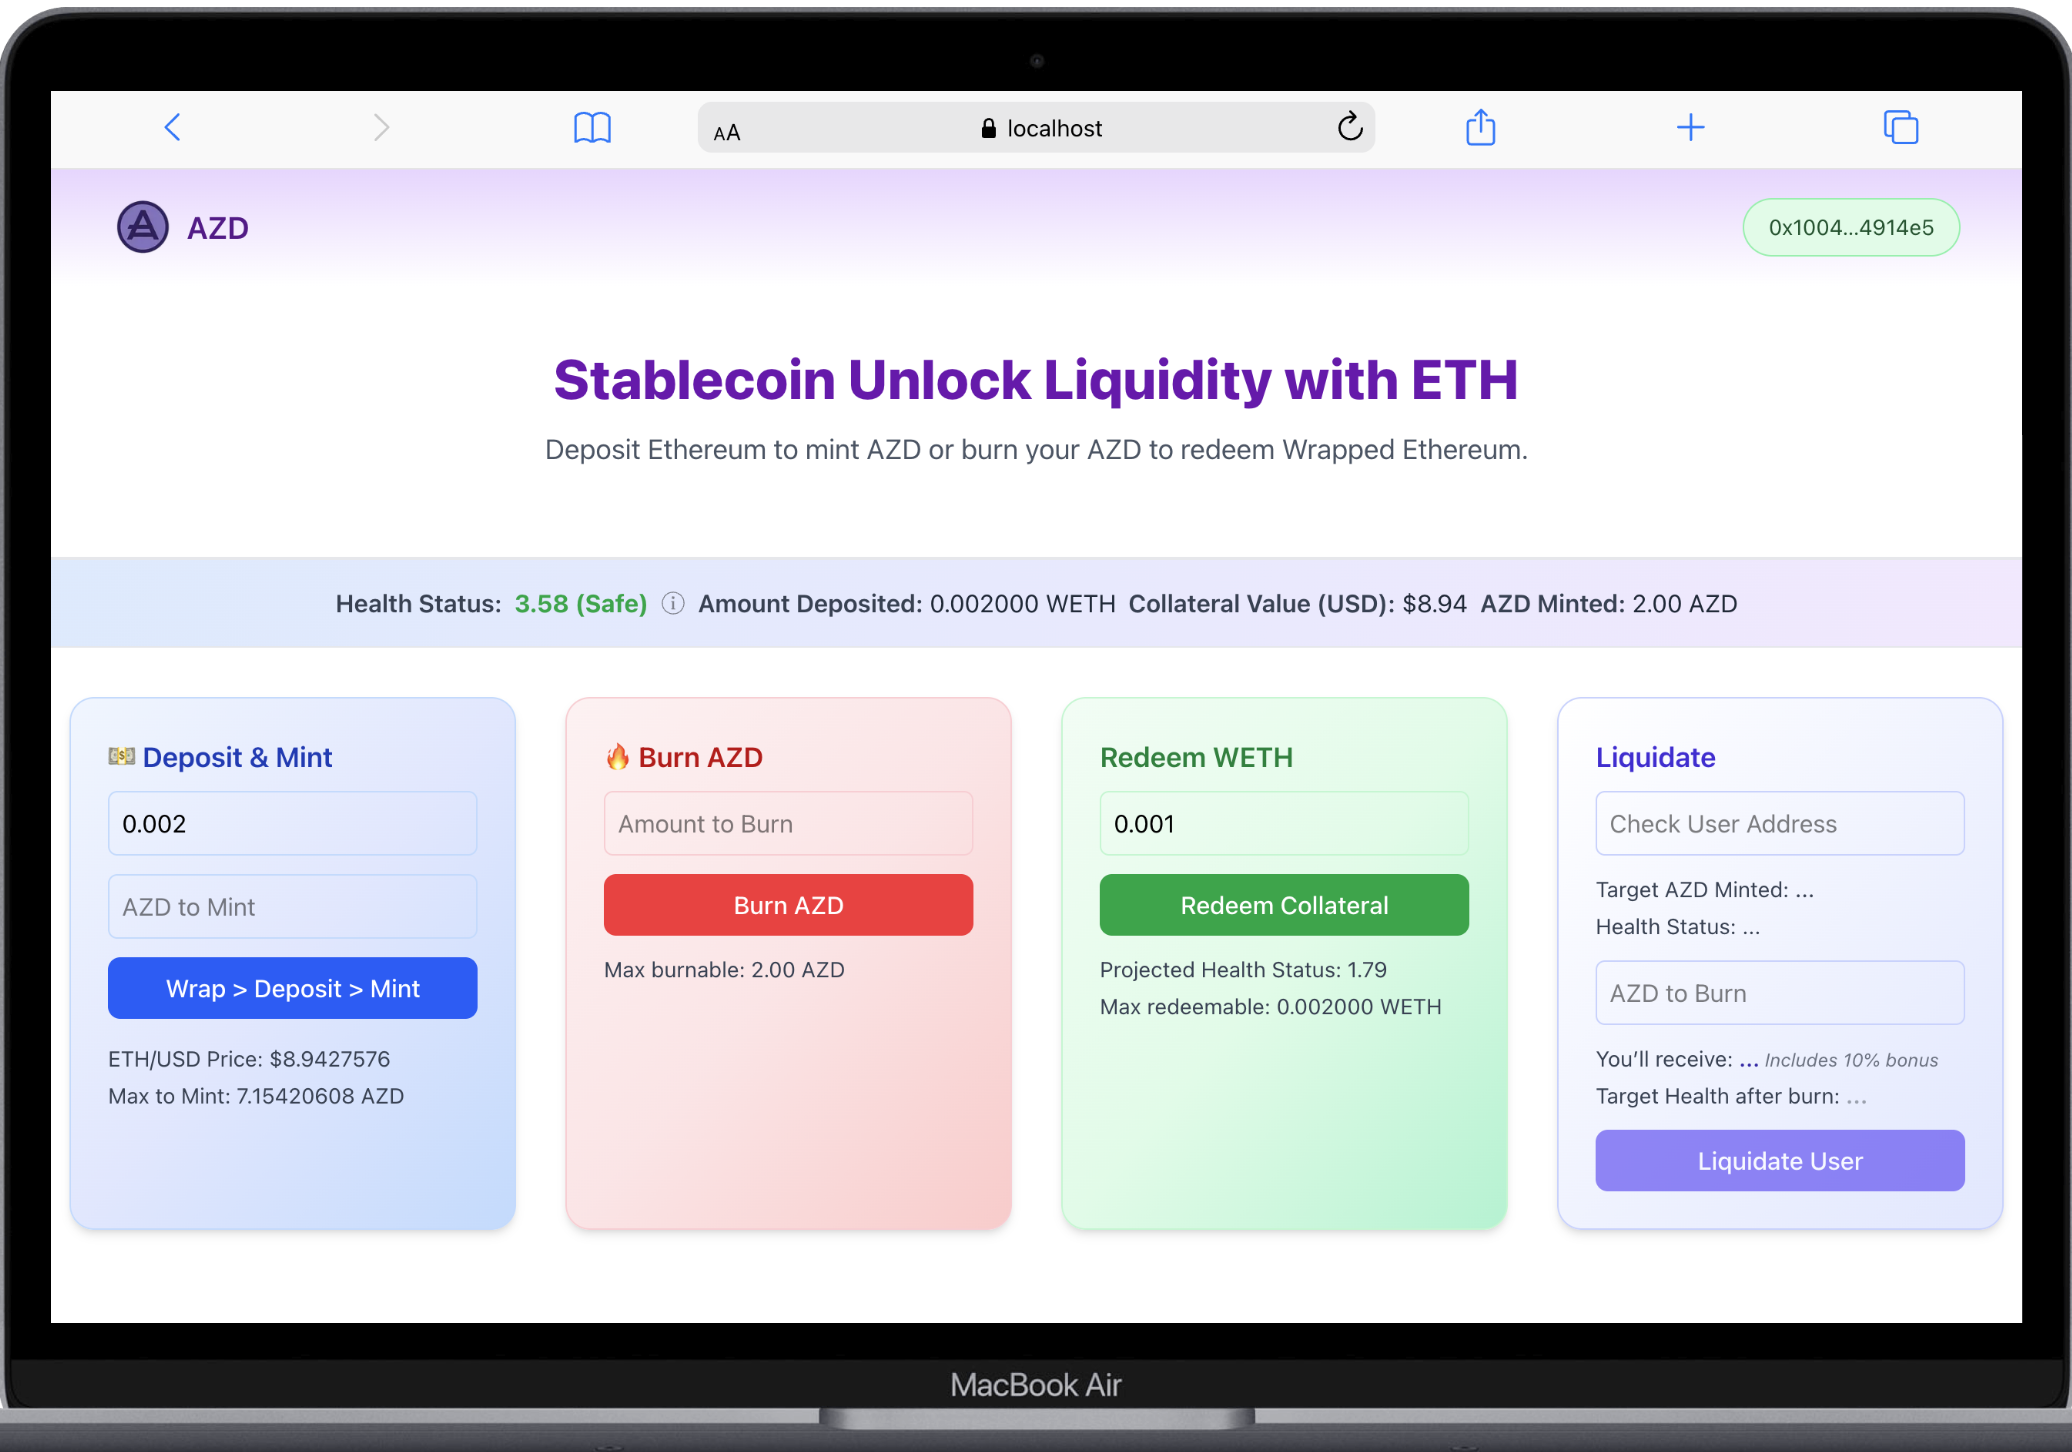
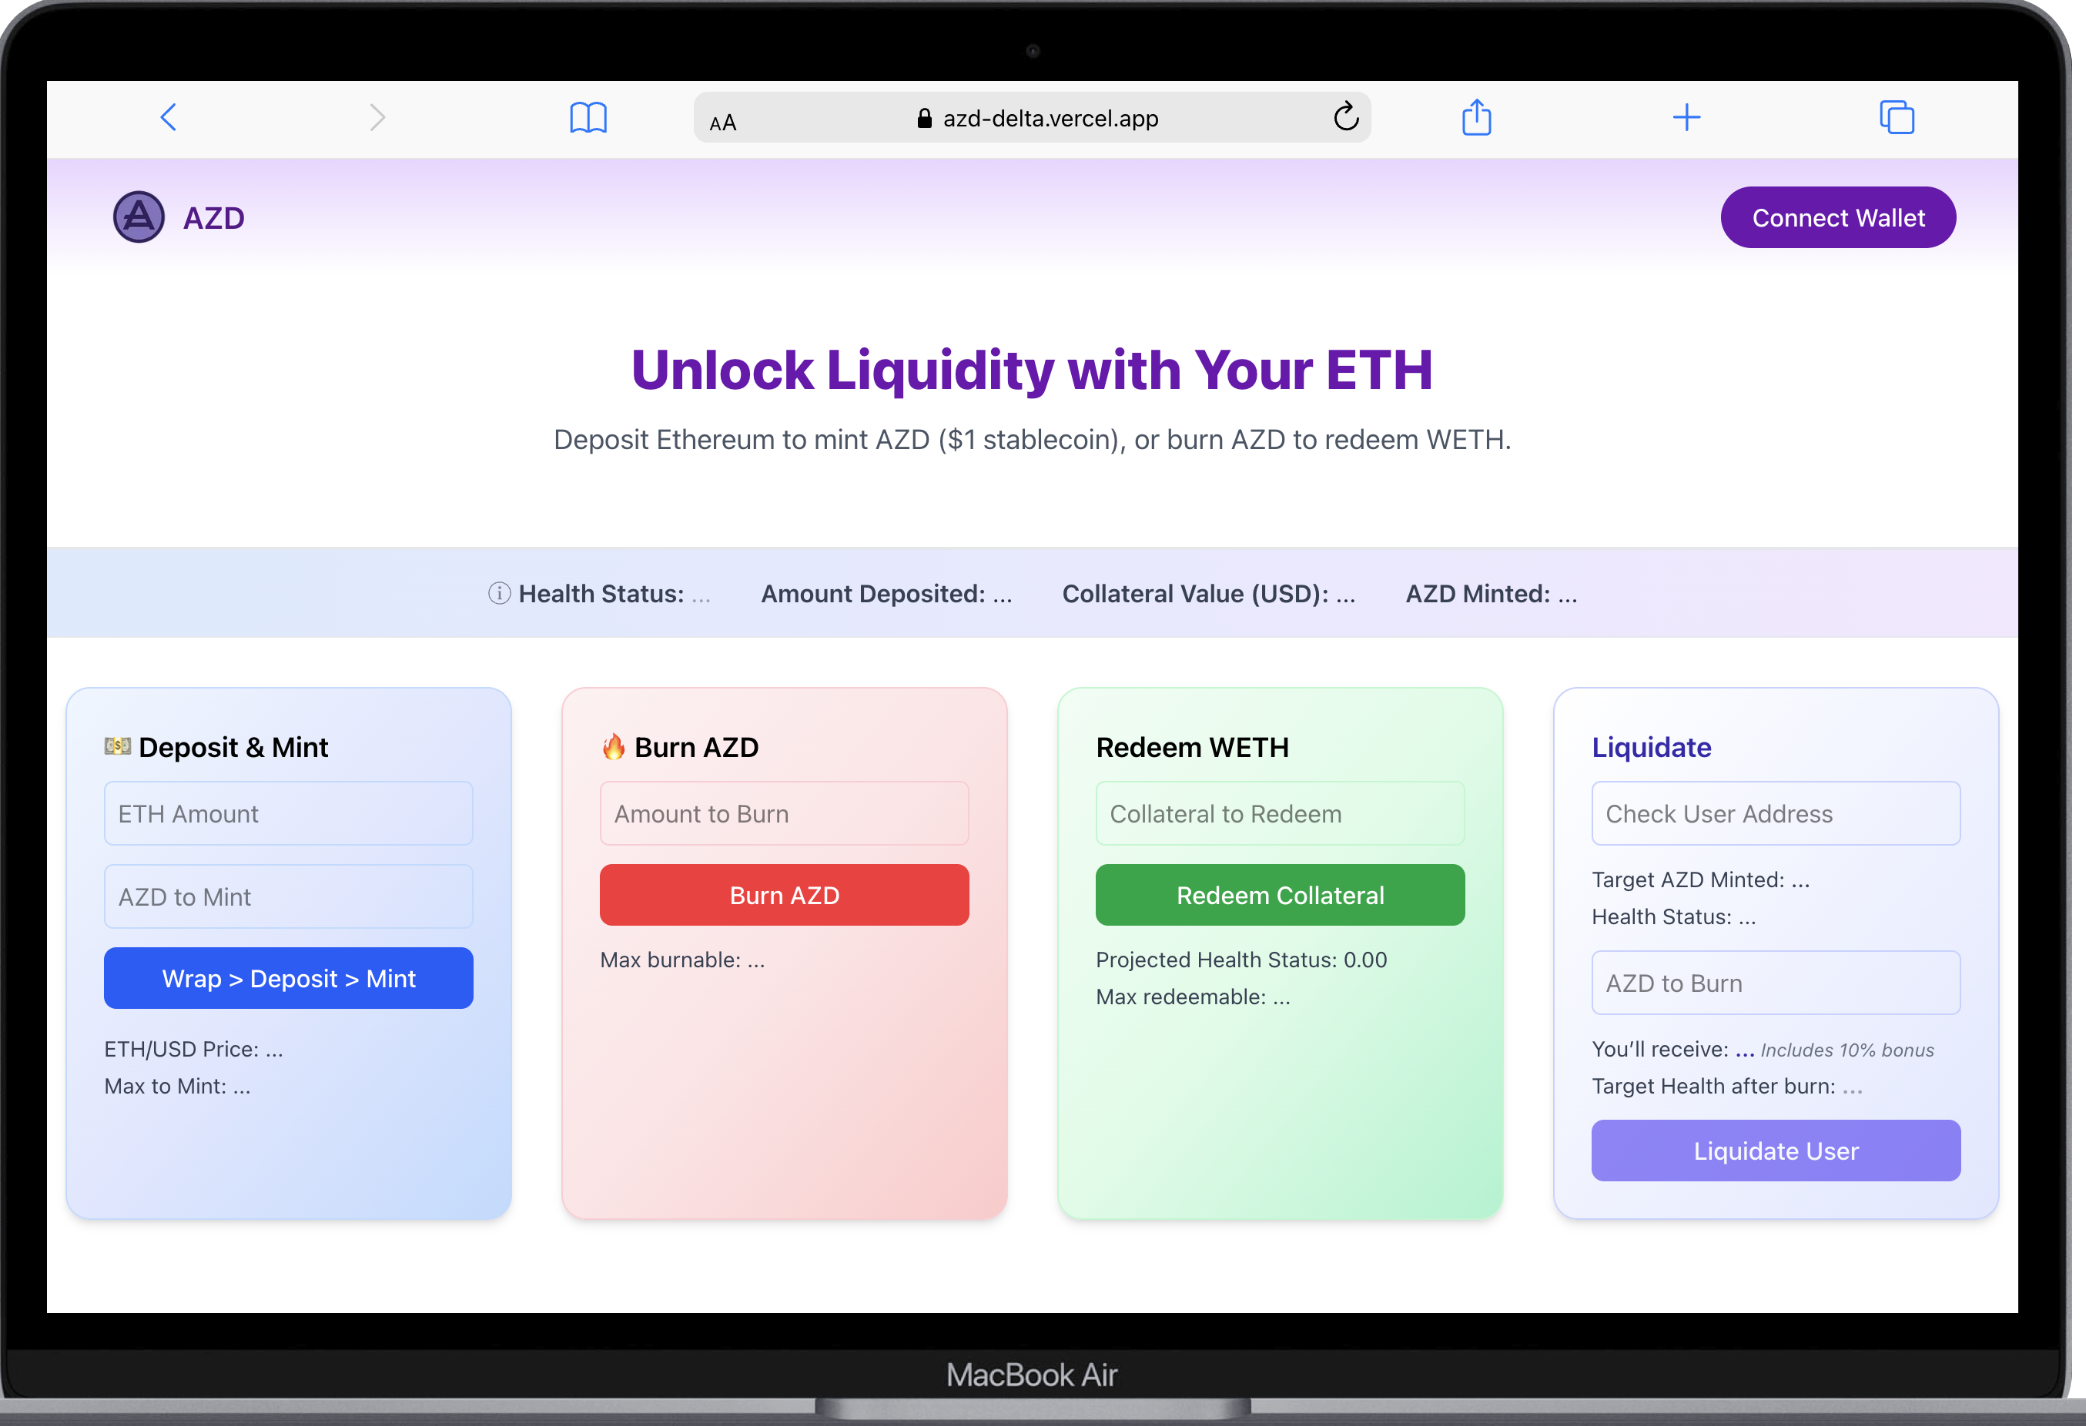
fixed buttons alignment

diff --git a/frontend-integration/src/app/page.js b/frontend-integration/src/app/page.js
@@ -66,6 +66,17 @@ export default function Home() {
   const [liquidateAmount, setLiquidateAmount] = useState("");
   const [liquidationPreview, setLiquidationPreview] = useState(null);
 
+  const SEPOLIA_PARAMS = {
+    chainId: "0xaa36a7", // Hex for 11155111
+    chainName: "Sepolia",
+    nativeCurrency: {
+      name: "Sepolia ETH",
+      symbol: "ETH",
+      decimals: 18,
+    },
+    rpcUrls: ["https://rpc.sepolia.org"],
+    blockExplorerUrls: ["https://sepolia.etherscan.io"],
+  };
 
   /*//////////////////////////////////////////////////////////////
                          CONNECT WALLET
@@ -79,6 +90,9 @@ export default function Home() {
     try {
       const provider = new ethers.BrowserProvider(window.ethereum); //so can talk to the blockchain
       await provider.send("eth_requestAccounts", []); // popup ask user to connect
+
+
+      await switchToSepolia(provider); // Force to switch to Sepolia
 
       const signer = await provider.getSigner(); //Represents the connected wallet, used to sign transactions.
       const address = await signer.getAddress(); //get user wallet address
@@ -96,6 +110,20 @@ export default function Home() {
 
     } catch (err) {
       console.error("Wallet connection failed:", err);
+    }
+  }
+
+
+  async function switchToSepolia(provider) {
+    try {
+      await provider.send("wallet_switchEthereumChain", [{ chainId: SEPOLIA_PARAMS.chainId }]);
+    } catch (err) {
+      // If the network isn’t added yet
+      if (err.code === 4902) {
+        await provider.send("wallet_addEthereumChain", [SEPOLIA_PARAMS]);
+      } else {
+        throw err;
+      }
     }
   }
 
@@ -498,44 +526,61 @@ export default function Home() {
           {/* Deposit & Mint */}
           <Card title="💵 Deposit & Mint" color="blue">
             {/* Specific inputs + button + logic */}
-            <div className="flex flex-col gap-3">
-              <input
-                type="number"
-                placeholder="ETH Amount"
-                className="border border-blue-200 p-2 rounded-md focus:ring-2 focus:ring-blue-400 outline-none"
-                value={collateralAmount}
-                onChange={handleInputCollateralChange}
-              />
-              <input
-                type="number"
-                placeholder="AZD to Mint"
-                className="border border-blue-200 p-2 rounded-md focus:ring-2 focus:ring-blue-400 outline-none"
-                value={mintAmount}
-                onChange={(e) => setMintAmount(e.target.value)}
-              />
+            <div className="flex flex-col justify-between flex-1">
+              <div className="flex flex-col gap-3">
+                <input
+                  type="number"
+                  placeholder="ETH Amount"
+                  className="border border-blue-200 p-2 rounded-md focus:ring-2 focus:ring-blue-400 outline-none"
+                  value={collateralAmount}
+                  onChange={handleInputCollateralChange}
+                />
+                <input
+                  type="number"
+                  placeholder="AZD to Mint"
+                  className="border border-blue-200 p-2 rounded-md focus:ring-2 focus:ring-blue-400 outline-none"
+                  value={mintAmount}
+                  onChange={(e) => setMintAmount(e.target.value)}
+                />
+                <div className=" text-sm text-gray-700 space-y-1 pb-3">
+                  <p>ETH/USD Price: {ethUsdPrice ? `$${ethUsdPrice}` : "..."}</p>
+                  <p>Max to Mint: {maxMintable ? `${maxMintable} AZD` : "..."}</p>
+                </div>
+
+              </div>
+
               <button
                 onClick={handleDepositAndMint}
-                className="bg-blue-600 hover:bg-blue-700 text-white py-2 rounded-lg font-medium transition-all"
+                className="bg-blue-600 hover:bg-blue-700 text-white py-2 rounded-lg font-medium transition-all w-full align-self-end"
               >
                 {"Wrap > Deposit > Mint"}
               </button>
-            </div>
-            <div className="mt-4 text-sm text-gray-700 space-y-1">
-              <p>ETH/USD Price: {ethUsdPrice ? `$${ethUsdPrice}` : "..."}</p>
-              <p>Max to Mint: {maxMintable ? `${maxMintable} AZD` : "..."}</p>
+
             </div>
           </Card>
 
           {/* Burn AZD */}
           <Card title="🔥 Burn AZD" color="red">
-            <div className="flex flex-col gap-3">
-              <input
-                type="number"
-                placeholder="Amount to Burn"
-                className="border border-rose-200 p-2 rounded-md focus:ring-2 focus:ring-red-400 outline-none"
-                value={burnAmount}
-                onChange={(e) => setBurnAmount(e.target.value)}
-              />
+            <div className="flex flex-col justify-between flex-1">
+              <div className="flex flex-col gap-3">
+                <input
+                  type="number"
+                  placeholder="Amount to Burn"
+                  className="border border-rose-200 p-2 rounded-md focus:ring-2 focus:ring-red-400 outline-none mt-1"
+                  value={burnAmount}
+                  onChange={(e) => setBurnAmount(e.target.value)}
+                />
+                {/* <button
+                onClick={handleBurnAZD}
+                className="bg-red-500 hover:bg-red-600 text-white py-2 rounded-lg font-medium transition-all"
+                disabled={!burnAmount || (userStats && Number(burnAmount) > Number(userStats.AZDMinted))}
+              >
+                Burn AZD
+              </button> */}
+                <p className="text-sm text-gray-700">
+                  Max burnable: {userStats ? `${userStats.AZDMinted} AZD` : "..."}
+                </p>
+              </div>
               <button
                 onClick={handleBurnAZD}
                 className="bg-red-500 hover:bg-red-600 text-white py-2 rounded-lg font-medium transition-all"
@@ -543,22 +588,40 @@ export default function Home() {
               >
                 Burn AZD
               </button>
-              <p className="text-sm text-gray-700">
-                Max burnable: {userStats ? `${userStats.AZDMinted} AZD` : "..."}
-              </p>
             </div>
           </Card>
 
           {/* Redeem Collateral */}
           <Card title="Redeem WETH" color="green">
-            <div className="flex flex-col gap-3">
-              <input
-                type="number"
-                placeholder="Collateral to Redeem"
-                className="border border-green-200 p-2 rounded-md focus:ring-2 focus:ring-green-400 outline-none"
-                value={redeemAmount}
-                onChange={handleRedeemInputChange}
-              />
+            <div className="flex flex-col justify-between flex-1">
+              <div className="flex flex-col gap-3">
+                <input
+                  type="number"
+                  placeholder="Collateral to Redeem"
+                  className="border border-green-200 p-2 rounded-md focus:ring-2 focus:ring-green-400 outline-none mt-1"
+                  value={redeemAmount}
+                  onChange={handleRedeemInputChange}
+                />
+                {/* <button
+                onClick={handleRedeemCollateral}
+                className="bg-green-600 hover:bg-green-700 text-white py-2 rounded-lg font-medium transition-all"
+                disabled={!redeemAmount || (userStats && Number(redeemAmount) > Number(userStats.collateralDeposited))}
+              >
+                Redeem Collateral
+              </button> */}
+                <div className="text-sm text-gray-700 space-y-1">
+                  {/* <p>Projected Health Status: {projectedHF || (userStats ? Number(userStats.healthFactor).toFixed(2) : "")}</p> */}
+                  <p>
+                    Projected Health Status:{" "}
+                    {(() => {
+                      const hf = Number(projectedHF || (userStats ? userStats.healthFactor : 0));
+                      if (!isFinite(hf) || hf > 1000) return "Safe";
+                      return hf.toFixed(2);
+                    })()}
+                  </p>
+                  <p>Max redeemable: {userStats ? `${userStats.collateralDeposited} WETH` : "..."}</p>
+                </div>
+              </div>
               <button
                 onClick={handleRedeemCollateral}
                 className="bg-green-600 hover:bg-green-700 text-white py-2 rounded-lg font-medium transition-all"
@@ -566,18 +629,6 @@ export default function Home() {
               >
                 Redeem Collateral
               </button>
-              <div className="text-sm text-gray-700 space-y-1">
-                {/* <p>Projected Health Status: {projectedHF || (userStats ? Number(userStats.healthFactor).toFixed(2) : "")}</p> */}
-                <p>
-                  Projected Health Status:{" "}
-                  {(() => {
-                    const hf = Number(projectedHF || (userStats ? userStats.healthFactor : 0));
-                    if (!isFinite(hf) || hf > 1000) return "Safe";
-                    return hf.toFixed(2);
-                  })()}
-                </p>
-                <p>Max redeemable: {userStats ? `${userStats.collateralDeposited} WETH` : "..."}</p>
-              </div>
             </div>
           </Card>
 

diff --git a/frontend-integration/src/app/components/Card.jsx b/frontend-integration/src/app/components/Card.jsx
@@ -6,10 +6,23 @@ export function Card({ title, color, children }) {
         indigo: "from-white to-indigo-100 border-indigo-200",
     };
 
+    const textColor =
+        color === "blue"
+            ? "text-blue-800"
+            : color === "red"
+                ? "text-red-800"
+                : color === "green"
+                    ? "text-green-800"
+                    : "text-indigo-800";
+
     return (
-        <div className={`p-6 bg-gradient-to-br rounded-2xl shadow-md hover:shadow-lg transition-shadow ${colorClasses[color]} border`}>
-            <h2 className={`text-lg font-semibold mb-2 flex items-center gap-2 text-${color}-800`}>{title}</h2>
+        // <div className={`p-6 bg-gradient-to-br rounded-2xl shadow-md hover:shadow-lg transition-shadow ${colorClasses[color]} border`}>
+        <div
+            className={`flex flex-col justify-between p-6 bg-gradient-to-br rounded-2xl shadow-md hover:shadow-lg transition-shadow ${colorClasses[color]} border h-full`}
+            style={{ minHeight: "260px" }}
+        >
+            <h2 className={`text-lg font-semibold mb-2 flex items-center gap-2 ${textColor}`}>{title}</h2>
             {children}
-        </div>
+        </div >
     );
 }

diff --git a/frontend-integration/src/app/components/NavBar.jsx b/frontend-integration/src/app/components/NavBar.jsx
@@ -6,7 +6,8 @@ export function Navbar({ userAddress, connectWallet }) {
       <a href="https://letiazevedo.com" target="_blank" rel="noopener noreferrer"
         className="flex items-center gap-2 group cursor-pointer">
         <Image src="/logo.png" alt="AZD Logo" width={40} height={40}
-          className="rounded-full object-contain hover:scale-105 transition-transform duration-200" />
+          className="rounded-full object-contain hover:scale-105 transition-transform duration-200"
+        />
         <h1 className="text-xl font-semibold text-purple-900 hover:text-purple-400">AZD</h1>
       </a>
 

diff --git a/README.md b/README.md
@@ -1,8 +1,5 @@
-<!-- # ![Logo](frontend-integration/public/logo.png) AZD — Azevedo Dollar Stablecoin -->
-<h1>
-<img src="frontend-integration/public/logo.png" alt="Logo" width="48" style="vertical-align:bottom;"/>
-  AZD — Azevedo Dollar Stablecoin
-</h1>
+<h1> <img src="frontend-integration/public/logo.png" alt="Logo" width="48" align="middle" />
+AZD — Azevedo Dollar Stablecoin</h1>
 
 A fully on-chain **overcollateralized stablecoin protocol** built with Solidity and Foundry, featuring React + Tailwind front-end for minting, burning, redeeming, and liquidating positions.
 
@@ -11,9 +8,10 @@ A fully on-chain **overcollateralized stablecoin protocol** built with Solidity 
 > 📝 [AZD Engine Protocol](https://sepolia.etherscan.io/address/0xF525ff53e1a384eBFe58b5F4E11FD82721DD25A4)
 
 
-> **Live Demo (Frontend)**  
+> **Live Demo *Building the Azevedo Dollar***  
 > 🔗 [dApp website](https://azd-delta.vercel.app/)  
-![UI](frontend-integration/public/ui.png)
+[![Watch the demo](https://cdn.loom.com/sessions/thumbnails/2c9acdae45d6435baffbe3160cfb255c-with-play.jpg)](https://www.loom.com/share/2c9acdae45d6435baffbe3160cfb255c)
+<!-- ![UI](frontend-integration/public/ui.png) -->
 
 ---
 
